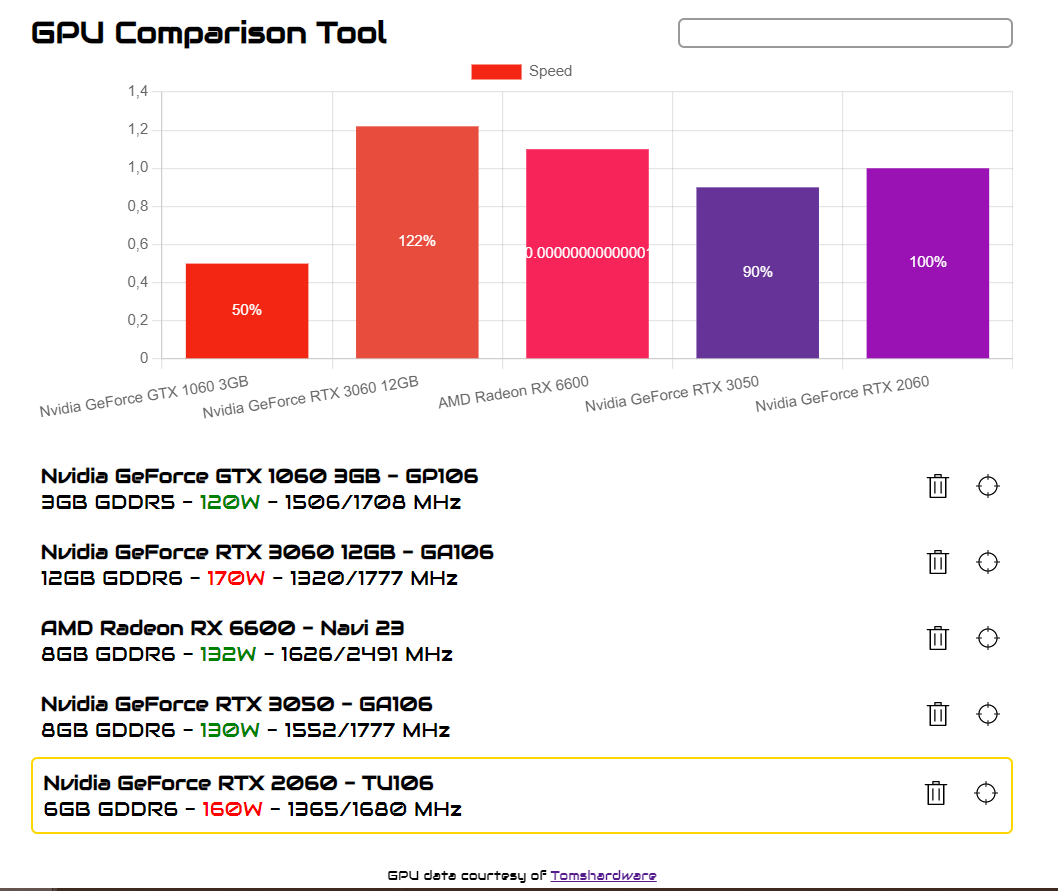
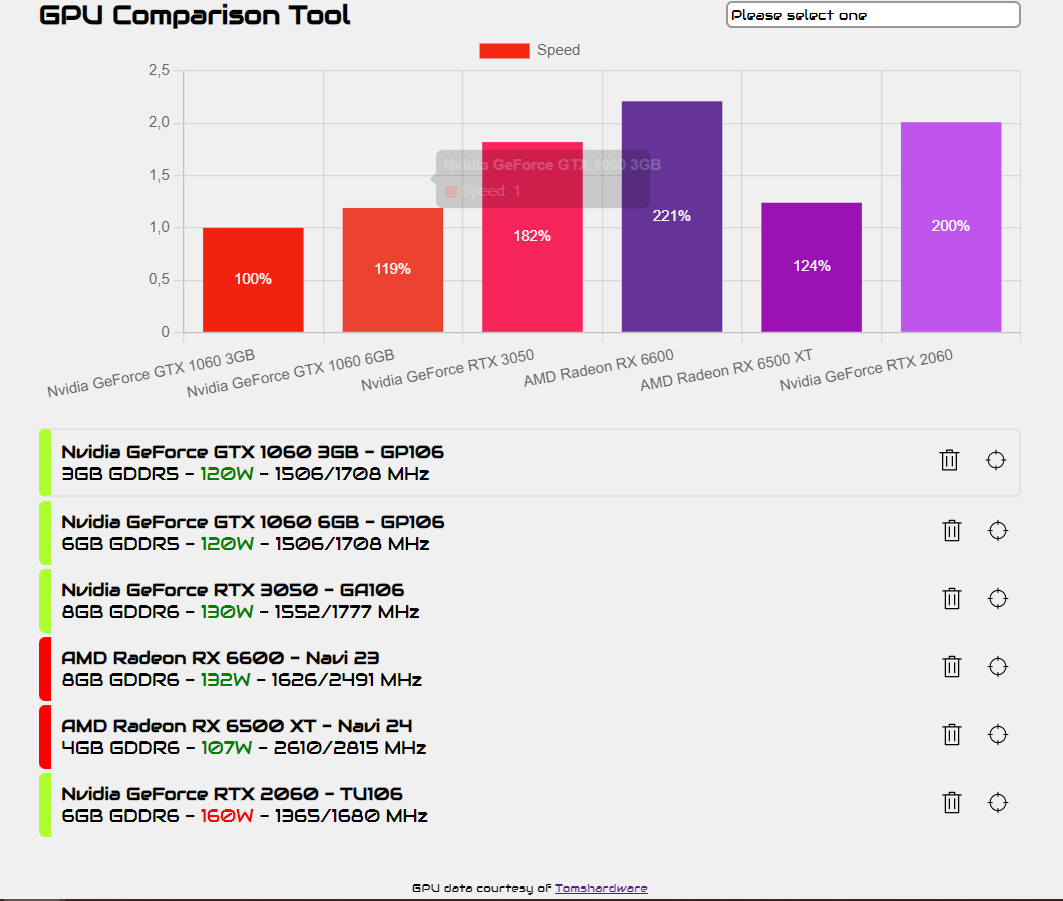
style

diff --git a/index.html b/index.html
@@ -170,32 +170,34 @@
       </div>
       <canvas id="bar-chart" width="786" height="300"></canvas>
       <br>
-      <div v-for="item in items" class="list-item"
-        :class="{'reference': item.scoreForChart===1, 'is-nvidia': item.family==='Nvidia', 'is-amd': item.family==='AMD', 'is-intel': item.family==='Intel'}">
-        <div>
-          <h4>{{item.name}} - {{item.gpu}}</h4>
-          <p>{{item.memory}} - <span :style="{'color': item.power> 140?'red':'green'}">{{item.power}}W</span> -
-            {{item.base_boost}}</p>
+      <div class="list-container">
+        <div v-for="item in items" class="list-item"
+          :class="{'reference': item.scoreForChart===1, 'is-nvidia': item.family==='Nvidia', 'is-amd': item.family==='AMD', 'is-intel': item.family==='Intel'}">
+          <div>
+            <h4>{{item.name}} - {{item.gpu}}</h4>
+            <p>{{item.memory}} - <span :style="{'color': item.power> 140?'red':'green'}">{{item.power}}W</span> -
+              {{item.base_boost}}</p>
+          </div>
+          <div class="btns">
+            <span class="btn tooltip" @click="remove(item)">
+              <span class="tooltiptext">Remove</span>
+              <svg class="svg-icon" viewBox="0 0 20 20">
+                <path
+                  d="M17.114,3.923h-4.589V2.427c0-0.252-0.207-0.459-0.46-0.459H7.935c-0.252,0-0.459,0.207-0.459,0.459v1.496h-4.59c-0.252,0-0.459,0.205-0.459,0.459c0,0.252,0.207,0.459,0.459,0.459h1.51v12.732c0,0.252,0.207,0.459,0.459,0.459h10.29c0.254,0,0.459-0.207,0.459-0.459V4.841h1.511c0.252,0,0.459-0.207,0.459-0.459C17.573,4.127,17.366,3.923,17.114,3.923M8.394,2.886h3.214v0.918H8.394V2.886z M14.686,17.114H5.314V4.841h9.372V17.114z M12.525,7.306v7.344c0,0.252-0.207,0.459-0.46,0.459s-0.458-0.207-0.458-0.459V7.306c0-0.254,0.205-0.459,0.458-0.459S12.525,7.051,12.525,7.306M8.394,7.306v7.344c0,0.252-0.207,0.459-0.459,0.459s-0.459-0.207-0.459-0.459V7.306c0-0.254,0.207-0.459,0.459-0.459S8.394,7.051,8.394,7.306">
+                </path>
+              </svg>
+            </span>
+            <span class="btn tooltip" @click="set100(item)" style="margin-left: 1rem;">
+              <span class="tooltiptext">Set as reference</span>
+              <svg class="svg-icon" viewBox="0 0 20 20">
+                <path
+                  d="M17.659,9.597h-1.224c-0.199-3.235-2.797-5.833-6.032-6.033V2.341c0-0.222-0.182-0.403-0.403-0.403S9.597,2.119,9.597,2.341v1.223c-3.235,0.2-5.833,2.798-6.033,6.033H2.341c-0.222,0-0.403,0.182-0.403,0.403s0.182,0.403,0.403,0.403h1.223c0.2,3.235,2.798,5.833,6.033,6.032v1.224c0,0.222,0.182,0.403,0.403,0.403s0.403-0.182,0.403-0.403v-1.224c3.235-0.199,5.833-2.797,6.032-6.032h1.224c0.222,0,0.403-0.182,0.403-0.403S17.881,9.597,17.659,9.597 M14.435,10.403h1.193c-0.198,2.791-2.434,5.026-5.225,5.225v-1.193c0-0.222-0.182-0.403-0.403-0.403s-0.403,0.182-0.403,0.403v1.193c-2.792-0.198-5.027-2.434-5.224-5.225h1.193c0.222,0,0.403-0.182,0.403-0.403S5.787,9.597,5.565,9.597H4.373C4.57,6.805,6.805,4.57,9.597,4.373v1.193c0,0.222,0.182,0.403,0.403,0.403s0.403-0.182,0.403-0.403V4.373c2.791,0.197,5.026,2.433,5.225,5.224h-1.193c-0.222,0-0.403,0.182-0.403,0.403S14.213,10.403,14.435,10.403">
+                </path>
+              </svg>
+            </span>
+          </div>
+          </li>
         </div>
-        <div class="btns">
-          <span class="btn tooltip" @click="remove(item)">
-            <span class="tooltiptext">Remove</span>
-            <svg class="svg-icon" viewBox="0 0 20 20">
-              <path
-                d="M17.114,3.923h-4.589V2.427c0-0.252-0.207-0.459-0.46-0.459H7.935c-0.252,0-0.459,0.207-0.459,0.459v1.496h-4.59c-0.252,0-0.459,0.205-0.459,0.459c0,0.252,0.207,0.459,0.459,0.459h1.51v12.732c0,0.252,0.207,0.459,0.459,0.459h10.29c0.254,0,0.459-0.207,0.459-0.459V4.841h1.511c0.252,0,0.459-0.207,0.459-0.459C17.573,4.127,17.366,3.923,17.114,3.923M8.394,2.886h3.214v0.918H8.394V2.886z M14.686,17.114H5.314V4.841h9.372V17.114z M12.525,7.306v7.344c0,0.252-0.207,0.459-0.46,0.459s-0.458-0.207-0.458-0.459V7.306c0-0.254,0.205-0.459,0.458-0.459S12.525,7.051,12.525,7.306M8.394,7.306v7.344c0,0.252-0.207,0.459-0.459,0.459s-0.459-0.207-0.459-0.459V7.306c0-0.254,0.207-0.459,0.459-0.459S8.394,7.051,8.394,7.306">
-              </path>
-            </svg>
-          </span>
-          <span class="btn tooltip" @click="set100(item)" style="margin-left: 1rem;">
-            <span class="tooltiptext">Set as reference</span>
-            <svg class="svg-icon" viewBox="0 0 20 20">
-              <path
-                d="M17.659,9.597h-1.224c-0.199-3.235-2.797-5.833-6.032-6.033V2.341c0-0.222-0.182-0.403-0.403-0.403S9.597,2.119,9.597,2.341v1.223c-3.235,0.2-5.833,2.798-6.033,6.033H2.341c-0.222,0-0.403,0.182-0.403,0.403s0.182,0.403,0.403,0.403h1.223c0.2,3.235,2.798,5.833,6.033,6.032v1.224c0,0.222,0.182,0.403,0.403,0.403s0.403-0.182,0.403-0.403v-1.224c3.235-0.199,5.833-2.797,6.032-6.032h1.224c0.222,0,0.403-0.182,0.403-0.403S17.881,9.597,17.659,9.597 M14.435,10.403h1.193c-0.198,2.791-2.434,5.026-5.225,5.225v-1.193c0-0.222-0.182-0.403-0.403-0.403s-0.403,0.182-0.403,0.403v1.193c-2.792-0.198-5.027-2.434-5.224-5.225h1.193c0.222,0,0.403-0.182,0.403-0.403S5.787,9.597,5.565,9.597H4.373C4.57,6.805,6.805,4.57,9.597,4.373v1.193c0,0.222,0.182,0.403,0.403,0.403s0.403-0.182,0.403-0.403V4.373c2.791,0.197,5.026,2.433,5.225,5.224h-1.193c-0.222,0-0.403,0.182-0.403,0.403S14.213,10.403,14.435,10.403">
-              </path>
-            </svg>
-          </span>
-        </div>
-        </li>
       </div>
   </template>
 

diff --git a/style.css b/style.css
@@ -29,14 +29,14 @@ select {
   margin: 0;
   width: 100%;
   font-family: inherit;
-  font-size: 80%;
+  font-size: 90%;
   cursor: inherit;
   line-height: inherit;
 }
 
 .container {
   width: 786px;
-  margin: 0 auto;
+  margin: 1rem auto;
   display: flex;
   flex-direction: column;
 }
@@ -45,6 +45,12 @@ select {
   display: flex;
   justify-content: space-between;
   align-items: center;
+}
+
+.list-container {
+  height: 360px;
+  overflow-y: scroll;
+  overflow-x: hidden;
 }
 
 .list-item {

diff --git a/README.md b/README.md
@@ -14,7 +14,7 @@ SVG Icons courtesy of [SVG Icons](https://svgicons.sparkk.fr).
 
 ## Features
 
-- [x] Web scraping with [cheerio](https://cheerio.js.org/)
+- [x] Web scraping with [cheerio](https://cheerio.js.org/) to fetch GPU data
 - [x] SPA in a single .html with no build system thanks to [petite-vue](https://github.com/vuejs/petite-vue)
 - [x] bar chart with [chartjs](https://www.chartjs.org)
 
